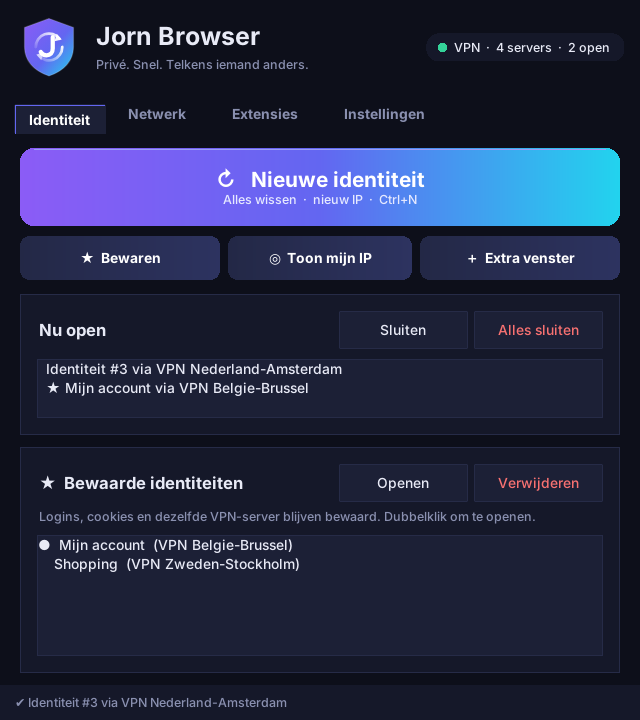
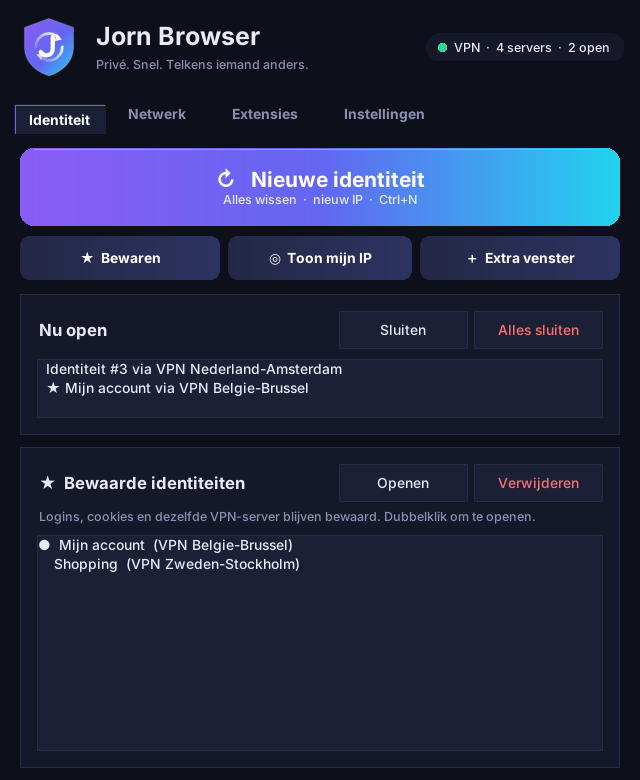
Mullvad-account in Instellingen (lokaal, versleuteld met Windows DPAPI)
Claude-Session: https://claude.ai/code/session_01RpQUqERt5QuXQedAL2uwZw

diff --git a/jornbrowser/app.py b/jornbrowser/app.py
@@ -6,6 +6,7 @@ import os
 import subprocess
 import sys
 import threading
+import webbrowser
 import tkinter as tk
 from tkinter import filedialog, messagebox, simpledialog, ttk
 
@@ -30,7 +31,7 @@ class App(tk.Tk):
     def __init__(self):
         super().__init__()
         self.title("Jorn Browser")
-        self.geometry("640x720")
+        self.geometry("640x780")
         self.minsize(560, 620)
         self.F = T.apply(self)
         self._set_icon()
@@ -211,6 +212,32 @@ class App(tk.Tk):
 
     def _build_settings(self, parent):
         f = ttk.Frame(parent, padding=(4, 14, 4, 10))
+
+        m = T.card(f)
+        m.outer.pack(fill="x", pady=(0, 12))
+        ttk.Label(m, text="Mullvad-account", style="CardTitle.TLabel").pack(anchor="w")
+        ttk.Label(m, text="Alleen op deze pc bewaard" + (", versleuteld met Windows." if os.name == "nt" else ".")
+                  + " Behandel het als een wachtwoord.", style="CardMuted.TLabel").pack(anchor="w", pady=(2, 8))
+        row = ttk.Frame(m, style="Card.TFrame")
+        row.pack(fill="x")
+        saved = core.load_mullvad_account()
+        self.mullvad_acc = tk.StringVar(value=core.format_mullvad_account(saved) if saved else "")
+        self.mullvad_entry = ttk.Entry(row, textvariable=self.mullvad_acc, show="•", font=self.F["h2"])
+        self.mullvad_entry.pack(side="left", fill="x", expand=True)
+        self.mullvad_show = ttk.Button(row, text="Toon", width=6, command=self._toggle_mullvad)
+        self.mullvad_show.pack(side="left", padx=(8, 0))
+        row2 = ttk.Frame(m, style="Card.TFrame")
+        row2.pack(fill="x", pady=(8, 0))
+        ttk.Button(row2, text="Opslaan", command=self.save_mullvad).pack(side="left")
+        ttk.Button(row2, text="Kopiëren", command=self.copy_mullvad).pack(side="left", padx=6)
+        ttk.Button(row2, text="Vergeten", style="Danger.TButton", command=self.forget_mullvad).pack(side="left")
+        row3 = ttk.Frame(m, style="Card.TFrame")
+        row3.pack(fill="x", pady=(8, 0))
+        ttk.Button(row3, text="Mijn account ↗",
+                   command=lambda: webbrowser.open(core.MULLVAD_ACCOUNT_URL)).pack(side="left")
+        ttk.Button(row3, text="WireGuard-bestanden maken ↗",
+                   command=lambda: webbrowser.open(core.MULLVAD_WG_CONFIG_URL)).pack(side="left", padx=6)
+
         c = T.card(f)
         c.outer.pack(fill="x")
         ttk.Label(c, text="Chromium (chrome.exe)", style="CardTitle.TLabel").pack(anchor="w")
@@ -389,6 +416,44 @@ class App(tk.Tk):
                 self.after(0, lambda: messagebox.showerror("Extensie", f"Toevoegen mislukt: {err}"))
 
         threading.Thread(target=work, daemon=True).start()
+
+    def _toggle_mullvad(self):
+        hidden = self.mullvad_entry.cget("show") == "•"
+        self.mullvad_entry.configure(show="" if hidden else "•")
+        self.mullvad_show.configure(text="Verberg" if hidden else "Toon")
+
+    def save_mullvad(self):
+        try:
+            core.save_mullvad_account(self.mullvad_acc.get())
+        except (ValueError, OSError) as e:
+            messagebox.showerror("Mullvad-account", str(e))
+            return
+        self.mullvad_acc.set(core.format_mullvad_account(core.load_mullvad_account()))
+        self.status.set("✔ Mullvad-account opgeslagen (alleen op deze pc).")
+
+    def copy_mullvad(self):
+        number = core.normalize_mullvad_account(self.mullvad_acc.get())
+        if not number:
+            messagebox.showwarning("Mullvad-account", "Vul eerst een geldig accountnummer in (16 cijfers).")
+            return
+        self.clipboard_clear()
+        self.clipboard_append(number)
+        self.status.set("✔ Gekopieerd. Het klembord wordt over 30 seconden gewist.")
+
+        def wipe():
+            try:
+                if self.clipboard_get() == number:
+                    self.clipboard_clear()
+                    self.status.set("Klembord gewist.")
+            except tk.TclError:
+                pass
+        self.after(30000, wipe)
+
+    def forget_mullvad(self):
+        if messagebox.askyesno("Mullvad-account", "Accountnummer van deze pc wissen?"):
+            core.forget_mullvad_account()
+            self.mullvad_acc.set("")
+            self.status.set("Mullvad-account gewist van deze pc.")
 
     def pick_chromium(self):
         p = filedialog.askopenfilename(title="Kies chrome.exe van Chromium",

diff --git a/jornbrowser/core.py b/jornbrowser/core.py
@@ -855,3 +855,77 @@ class IdentityManager:
         for i in gone:
             self.close(i)
         return gone
+
+
+# --------------------------------------------------------------------------- Mullvad-account
+#
+# Het accountnummer werkt als een wachtwoord. Het staat alleen lokaal in
+# data/ (nooit in git). Op Windows wordt het versleuteld met DPAPI: alleen
+# jouw Windows-gebruiker op deze pc kan het weer lezen.
+
+MULLVAD_ACCOUNT_URL = "https://mullvad.net/account"
+MULLVAD_WG_CONFIG_URL = "https://mullvad.net/account/wireguard-config"
+
+
+def mullvad_account_path() -> Path:
+    return data_dir() / "mullvad_account.bin"
+
+
+def normalize_mullvad_account(text: str) -> str | None:
+    digits = re.sub(r"[\s-]", "", text or "")
+    return digits if re.fullmatch(r"\d{16}", digits) else None
+
+
+def format_mullvad_account(number: str) -> str:
+    return " ".join(number[i:i + 4] for i in range(0, len(number), 4))
+
+
+def _dpapi(data: bytes, protect: bool) -> bytes:
+    import ctypes
+    from ctypes import wintypes
+
+    class BLOB(ctypes.Structure):
+        _fields_ = [("cbData", wintypes.DWORD), ("pbData", ctypes.POINTER(ctypes.c_char))]
+
+    buf = ctypes.create_string_buffer(data, len(data))
+    blob_in = BLOB(len(data), ctypes.cast(buf, ctypes.POINTER(ctypes.c_char)))
+    blob_out = BLOB()
+    crypt32 = ctypes.windll.crypt32  # type: ignore[attr-defined]
+    fn = crypt32.CryptProtectData if protect else crypt32.CryptUnprotectData
+    ok = fn(ctypes.byref(blob_in), None, None, None, None, 0x1, ctypes.byref(blob_out))  # 0x1 = geen UI
+    if not ok:
+        raise OSError("Windows-versleuteling (DPAPI) mislukt.")
+    try:
+        return ctypes.string_at(blob_out.pbData, blob_out.cbData)
+    finally:
+        ctypes.windll.kernel32.LocalFree(blob_out.pbData)  # type: ignore[attr-defined]
+
+
+def save_mullvad_account(number: str) -> None:
+    norm = normalize_mullvad_account(number)
+    if not norm:
+        raise ValueError("Een Mullvad-accountnummer bestaat uit 16 cijfers.")
+    if os.name == "nt":
+        payload = b"dpapi:" + _dpapi(norm.encode(), protect=True)
+    else:
+        payload = b"plain:" + norm.encode()  # buiten Windows: niet versleuteld
+    mullvad_account_path().write_bytes(payload)
+
+
+def load_mullvad_account() -> str:
+    try:
+        payload = mullvad_account_path().read_bytes()
+    except OSError:
+        return ""
+    try:
+        if payload.startswith(b"dpapi:"):
+            return _dpapi(payload[6:], protect=False).decode()
+        if payload.startswith(b"plain:"):
+            return payload[6:].decode()
+    except (OSError, ValueError, AttributeError):
+        pass
+    return ""
+
+
+def forget_mullvad_account() -> None:
+    mullvad_account_path().unlink(missing_ok=True)
